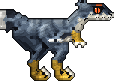
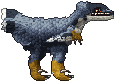
Acheroraptor painted in HD: slate feathers, black mask, red eye
The folded wing keeps the drawing's white streak at its feathers' tips;
gold scaly shanks, sickle claws raised, upper teeth drawn above the jaw
line (drawnTeeth). The tail turns with the rump down to the legs.

diff --git a/internal/dinopaint/achero.go b/internal/dinopaint/achero.go
@@ -1,0 +1,140 @@
+package dinopaint
+
+// Acheroraptor: dinos/achero.png, 38 x 28, facing right: a small raptor,
+// slate blue, with a black mask through its red eye, a white-tipped tail
+// and gold legs. Its rig is "achero" in internal/client/dinorigs.go: hips
+// (20, 14) and (12.5, 14), knees (21.5, 18) and (13.5, 18), ankles (19, 21)
+// and (11.5, 21); the legs are cut from row 17, columns 17-24 (near) and
+// 9-16 (far); the head turns about (23.6, 6.8), the jaw opens about (31, 5)
+// along the line to (36.5, 5.2), and the tail turns about (11, 8).
+
+func init() { Register(achero()) }
+
+var redIris = []uint32{0x4a0c04, 0x7a1806, 0xb22e0c, 0xe25014, 0xff7a2a, 0xffa860}
+
+func achero() *Species {
+	farLeg := Union(
+		Cone(12.6, 15, 2.6, 13.6, 18, 1.9),
+		Cone(13.6, 18, 1.8, 11.6, 21, 1.15),
+		Cone(11.6, 21, 1.0, 12.1, 24.9, 0.85),
+		Cone(12.1, 25.2, 0.85, 15.4, 25.6, 0.55),
+		Cone(12.9, 24.7, 0.6, 14.3, 23.9, 0.45), // the second toe, raised
+	)
+	nearLeg := Union(
+		Cone(20.2, 15, 2.7, 21.4, 18, 2.0),
+		Cone(21.4, 18, 1.8, 19.2, 21, 1.15),
+		Cone(19.2, 21, 1.0, 19.7, 24.9, 0.85),
+		Cone(19.7, 25.2, 0.85, 23.4, 25.6, 0.55),
+		Cone(20.5, 24.7, 0.6, 21.9, 23.9, 0.45),
+	)
+	body := Blend(2,
+		Path([3]float64{11, 9.4, 3.6}, [3]float64{5, 7.5, 3}, [3]float64{0.5, 6.5, 3.3}), // the tail
+		Ellipse(15.5, 10.8, 8.5, 4.6, 0.1),
+		Cone(22, 9, 3, 25.5, 5.5, 2.2),                                                              // the neck
+		Poly(24.8, 1.2, 28.5, 0.6, 31, 1.6, 36, 2.2, 37.4, 3.6, 37.3, 5.0, 31, 5.0, 27, 7, 24.4, 5), // the head
+	)
+	jaw := Poly(28.8, 5, 37.2, 5.1, 36.8, 6.2, 30, 6.4, 28.4, 6)
+	wing := Union( // the arm folded, its long feathers along the flank
+		Cone(23.9, 10, 1.6, 25.2, 12.8, 1.2),
+		Cone(25.2, 13, 0.9, 26.6, 13.7, 0.6),
+		Poly(25, 10.6, 24.6, 13, 20, 13.7, 15.4, 13.9, 17, 12.3, 21, 11, 23.5, 10),
+	)
+	return &Species{
+		Name:        "achero",
+		GuideDetail: 0.3,
+		Ink:         30,
+		Materials: []Material{
+			{Name: "slate", Seeds: []uint32{0x7b8c9e, 0x5a6a7e, 0x3f4c5e, 0xa2b1bf, 0x28313f},
+				Ramp: []uint32{0x13151d, 0x1d212d, 0x282f3f, 0x363f52, 0x475268, 0x5b687f, 0x76869b, 0x98a6b4}},
+			{Name: "dark", Seeds: []uint32{0x262b36},
+				Ramp: []uint32{0x0b0d12, 0x11141b, 0x171b23, 0x1d222b, 0x232934, 0x2a303c, 0x323946, 0x3b4352}, Bias: 0.05},
+			{Name: "pale", Seeds: []uint32{0xaeaa9c, 0xd6d3c6, 0x7f7a70},
+				Ramp: []uint32{0x38383c, 0x52514e, 0x6c6a63, 0x87847a, 0xa09c90, 0xb6b2a6, 0xcac7bc, 0xdedcd2}},
+			{Name: "gold", Seeds: []uint32{0xbc922c, 0x8c6a20, 0xe2b844, 0x5a4416},
+				Ramp: []uint32{0x2a1c08, 0x3e2a0c, 0x5a3e10, 0x7a5616, 0x9a6e1c, 0xb88a26, 0xd2a634, 0xe8c454}},
+			{Name: "white", Seeds: []uint32{0xf2f1ec, 0xf2f0e6, 0xe8e2d0, 0xc8c6c0},
+				Ramp: []uint32{0x4c4e56, 0x6c6e76, 0x909298, 0xb2b2b2, 0xccccc6, 0xe0dfd8, 0xefeee6, 0xfbfaf6}, Bias: 0.1},
+			{Name: "eye", Seeds: []uint32{0xff6a2a}, Ramp: redIris},
+			// The black mask from the eye forward along the top of the snout.
+			{Name: "mask", Ramp: []uint32{0x0a0b10, 0x0f1118, 0x14171f, 0x1a1e28, 0x212632, 0x29303d, 0x323a49, 0x3c4556},
+				Region: Poly(29, 0.6, 35.6, 1.6, 35.6, 2.9, 33.8, 3.7, 31.2, 4.0, 29.4, 3.2, 28.6, 2.0)},
+		},
+		Recolor: []Recolor{
+			{Region: Poly(24, 13.6, 28.5, 13.6, 28.5, 16, 24, 16), From: []string{"white"}, To: "gold"},
+			{Region: Poly(13.4, 22, 17, 22, 17, 25, 13.4, 25), From: []string{"white"}, To: "gold"},
+			{Region: Poly(21.4, 22, 25, 22, 25, 25, 21.4, 25), From: []string{"white"}, To: "gold"},
+			// The tail's dark band, the drawing's darkest blue there.
+			{Region: Poly(1.8, 3, 4.9, 3, 4.9, 5.9, 1.8, 5.9), From: []string{"slate"}, To: "dark"},
+			{Region: Poly(1.8, 6.9, 4.9, 6.9, 4.9, 9.5, 1.8, 9.5), From: []string{"slate"}, To: "dark"},
+		},
+		Remove: []SDF{
+			Poly(24.4, 13.8, 28.4, 13.8, 28.4, 16, 24.4, 16), // the guide's hand claws
+			Poly(13.6, 22.5, 17, 22.5, 17, 24.9, 13.6, 24.9), // and its sickle claws
+			Poly(21.6, 22.5, 25, 22.5, 25, 24.9, 21.6, 24.9),
+		},
+		Parts: []Part{
+			{Name: "farLeg", Shape: farLeg, Far: true, Round: 2.2, Scale: 0.65, Muscles: []Muscle{
+				Mu(13, 16, 2.2, 2.2, 0, 0.8),
+			}},
+			{Name: "body", Shape: body, Round: 5.5, RoundAt: func(x, y float64) float64 { return lerp(5.5, 2.2, smoothstep(23, 28, x)) }, Muscles: []Muscle{
+				Mu(15.5, 10, 6, 3.5, 0, 0.7),     // the ribs
+				Mu(22, 9, 2.4, 2.8, 0.3, 0.6),    // the shoulder
+				Mu(28.6, 2.6, 2.2, 1.3, 0, 0.6),  // the jaw muscle behind the eye
+				Mu(34.5, 3.4, 2.6, 1, 0, 0.4),    // the snout
+				Mu(32.4, 2.3, 1.2, 0.55, 0, 0.5), // the brow
+			}},
+			{Name: "jaw", Shape: jaw, Round: 0.9, Soft: 0.5, Scale: 0.55, Mat: "pale"},
+			{Name: "nearLeg", Shape: nearLeg, Round: 2.4, Scale: 0.65, Onto: "body", Seam: Below(6, 15.8, 26, 15), Muscles: []Muscle{
+				Mu(20.4, 16, 2.3, 2.3, 0, 0.9),
+			}},
+			{Name: "wing", Shape: wing, Round: 1.7, Soft: 0.6, Muscles: []Muscle{
+				Mu(24.2, 10.8, 1.1, 1.8, 0.35, 0.7),
+				Mu(25.4, 13, 1.0, 0.7, 0.4, 0.4),
+			}},
+		},
+		Skin: Skin{Flank: 1.2, Back: 1.5, Belly: 1.0, BackDepth: 2.5, BellyDepth: 2.5, Relief: 0.8, Seed: 37},
+		Folds: []Fold{
+			{Pts: []float64{10.2, 21.8, 11.8, 21.8}, N: 3, DY: 0.9, Depth: 0.5},
+			{Pts: []float64{17.8, 21.8, 19.4, 21.8}, N: 3, DY: 0.9, Depth: 0.5},
+		},
+		Details: acheroDetails,
+	}
+}
+
+func acheroPlumage() *Plumage {
+	return &Plumage{Seed: 7, Edge: 0.45, Tracts: []Tract{
+		{Name: "farThigh", Region: Poly(8, 13, 16.5, 13, 16.5, 20.4, 8, 20.4), Parts: []string{"farLeg"},
+			Flow: Along(12.5, 14, 13.5, 18, 11.5, 21), Len: 1.9, Wid: 1.35, Fluff: 0.4, Snap: true},
+		{Name: "body", Region: Union(Poly(6, 3.5, 23, 3.5, 27, 6.5, 27, 10, 24, 16, 6, 17), Ellipse(25, 3.6, 1.8, 2.2, 0)),
+			Parts: []string{"body", "wing"},
+			Flow:  Along(26.5, 1.2, 25, 4, 22, 6.8, 16, 8, 10, 8.4, 6, 8), Len: 2.2, Wid: 1.5, Rows: 0.45, Jitter: 0.2, Fluff: 0.5, Snap: true},
+		{Name: "crown", Region: Poly(24, 0, 29.2, 0, 29.2, 2.4, 27, 4, 25, 6.5, 23.5, 6.5), Parts: []string{"body"},
+			Flow: Along(29.5, 1.4, 27, 1.6, 25, 4, 24, 7), Len: 1.2, Wid: 0.9, Fluff: 0.35, Snap: true},
+		{Name: "tail", Region: Poly(-1, 2, 8, 3.2, 9.5, 6.5, 8, 11, -1, 11), Parts: []string{"body"},
+			Flow: Fan(13, 7, 7, 3.1416), Len: 3.6, Wid: 1.25, Rows: 0.34, Tip: 0.5, Shaft: 0.12, Fluff: 0.6, Grow: 0.02},
+		{Name: "nearThigh", Region: Poly(16, 13, 25, 13, 25, 20.4, 16, 20.4), Parts: []string{"nearLeg"},
+			Flow: Along(20, 14, 21.5, 18, 19, 21), Len: 1.9, Wid: 1.35, Fluff: 0.4, Snap: true},
+		{Name: "wing", Region: Poly(24.5, 10.2, 24.8, 13.2, 20, 13.8, 15.2, 14.2, 16, 12.4, 20, 11, 23, 10), Parts: []string{"wing"},
+			Flow: Along(25, 11.2, 22.5, 12.3, 19, 13, 15.5, 13.5), Len: 3.6, Wid: 1.1, Rows: 0.34, Tip: 0.55, Shaft: 0.1, Fluff: 0.3,
+			TipMat: "white", TipLen: 0.3, TipGuide: true},
+		{Name: "arm", Region: Poly(23, 9, 26.5, 10, 26.8, 13.5, 24.5, 13.8, 23.4, 11.5), Parts: []string{"wing"},
+			Flow: Along(23.6, 9.2, 24.8, 11.6, 25.8, 13.6), Len: 1.7, Wid: 1.2, Fluff: 0.3, Snap: true},
+	}}
+}
+
+func acheroDetails(p *Painter) {
+	p.Plumage(acheroPlumage())
+	p.Teeth(TeethSpec{X0: 30.4, Y0: 4.4, X1: 36.8, Y1: 4.45, Bottom: 5.02, N: 6, Len: 0.62,
+		Ramp: raptorTeeth, Gap: 0x1c0e10, Seed: 13})
+	p.Lip([]float64{30.2, 4.42, 33.5, 4.42, 37, 4.47}, 6)
+	p.Nostril(36.2, 3.1, 0.42, 0.26, -0.3)
+	p.Eye(EyeSpec{X: 32.5, Y: 3.25, R: 0.72, Iris: redIris, Slit: true, Lid: 0.22, Squint: 1.25})
+	// The hand's claws.
+	p.Claw(25.1, 13.4, 25.3, 15.0, 0.7, 0.3, sickleHorn[:6])
+	p.Claw(26.6, 13.5, 27.2, 14.9, 0.7, 0.3, sickleHorn[:6])
+	// The feet: a claw on the front toe, and the sickle claw held up.
+	p.Claw(15.0, 25.3, 16.5, 25.9, 0.6, 0.15, sickleHorn[:5])
+	p.Claw(13.0, 23.8, 15.8, 24.3, 1.0, -0.75, sickleHorn)
+	p.Claw(22.9, 25.3, 24.6, 25.9, 0.65, 0.15, sickleHorn[:6])
+	p.Claw(20.7, 23.8, 23.7, 24.3, 1.05, -0.75, sickleHorn)
+}

diff --git a/internal/client/dinorigs.go b/internal/client/dinorigs.go
@@ -90,11 +90,12 @@ var dinoRigs = map[string]dinoRig{
 			hind(17, 24, 17, rigPt{20, 14}, rigPt{21.5, 18}, rigPt{19, 21}, rigPt{20, 25.5}, rigPt{24.5, 26}),
 			hind(9, 16, 17, rigPt{12.5, 14}, rigPt{13.5, 18}, rigPt{11.5, 21}, rigPt{12.5, 25.5}, rigPt{16.5, 26}),
 		},
-		head:  rigPart{pivot: rigPt{23.6, 6.8}, dir: headUp(0.5), maxY: 10},
-		jaw:   [2]rigPt{{31, 5}, {36.5, 5.2}},
-		teeth: true,
-		far:   0b10,
-		tail:  rigPart{pivot: rigPt{11, 8}, dir: math.Pi, maxY: 13},
+		head:       rigPart{pivot: rigPt{23.6, 6.8}, dir: headUp(0.5), maxY: 10},
+		jaw:        [2]rigPt{{31, 5}, {36.5, 5.2}}, // the upper teeth are above this line, in the drawing
+		drawnTeeth: true,
+		teeth:      true,
+		far:        0b10,
+		tail:       rigPart{pivot: rigPt{11, 8}, dir: math.Pi, maxY: 17}, // the rump down to the legs
 	},
 	"troodon": {
 		file: "troodon", stride: 3, runner: true,
